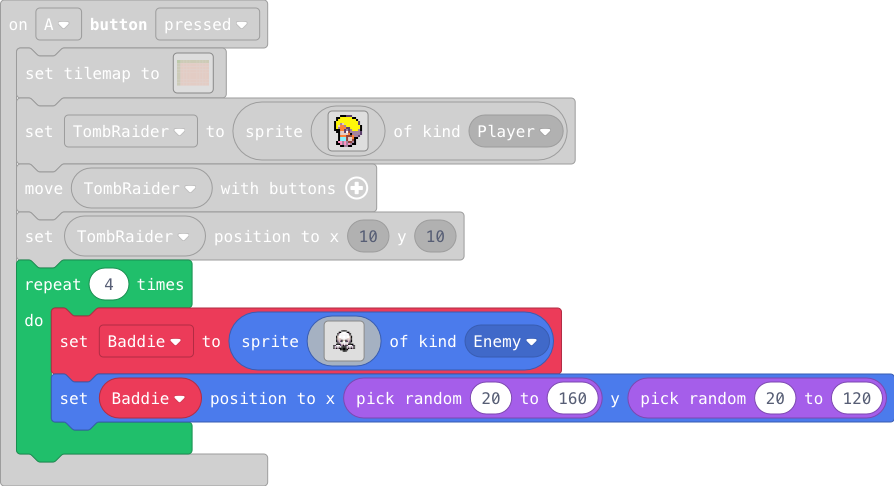
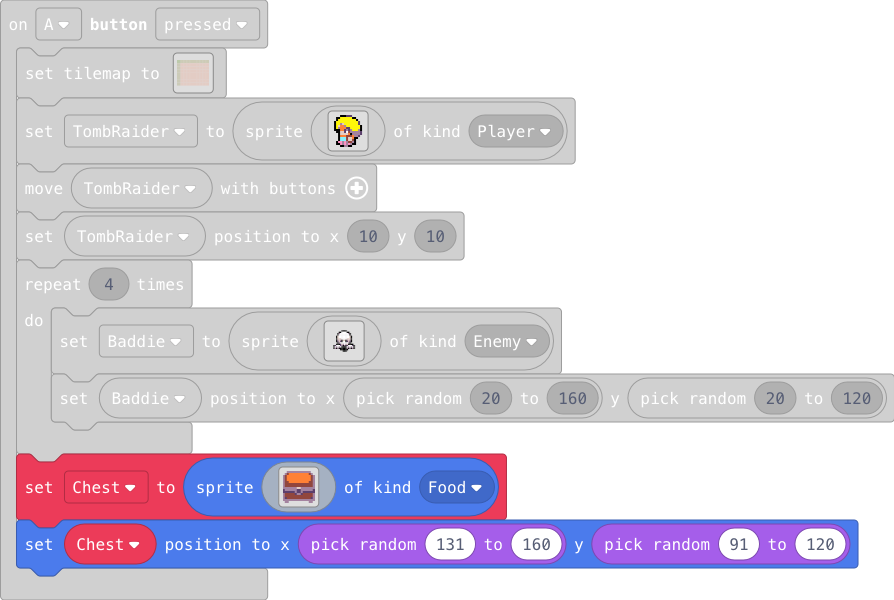
Update main.blocks, main.ts

diff --git a/main.ts b/main.ts
@@ -125,10 +125,30 @@ f f f 4 4 c b c b 5 5 5 b f
 `, SpriteKind.Enemy)
         Baddie.setPosition(Math.randomRange(20, 160), Math.randomRange(20, 120))
     }
+    Chest = sprites.create(img`
+. . b b b b b b b b b b b b . . 
+. b e 4 4 4 4 4 4 4 4 4 4 e b . 
+b e 4 4 4 4 4 4 4 4 4 4 4 4 e b 
+b e 4 4 4 4 4 4 4 4 4 4 4 4 e b 
+b e 4 4 4 4 4 4 4 4 4 4 4 4 e b 
+b e e 4 4 4 4 4 4 4 4 4 4 e e b 
+b e e e e e e e e e e e e e e b 
+b e e e e e e e e e e e e e e b 
+b b b b b b b d d b b b b b b b 
+c b b b b b b c c b b b b b b c 
+c c c c c c b c c b c c c c c c 
+b e e e e e c b b c e e e e e b 
+b e e e e e e e e e e e e e e b 
+b c e e e e e e e e e e e e c b 
+b b b b b b b b b b b b b b b b 
+. b b . . . . . . . . . . b b . 
+`, SpriteKind.Food)
+    Chest.setPosition(Math.randomRange(131, 160), Math.randomRange(91, 120))
 })
 sprites.onOverlap(SpriteKind.Player, SpriteKind.Enemy, function (sprite, otherSprite) {
     TombRaider.setPosition(10, 10)
 })
+let Chest: Sprite = null
 let Baddie: Sprite = null
 let TombRaider: Sprite = null
 tiles.setTilemap(tiles.createTilemap(
